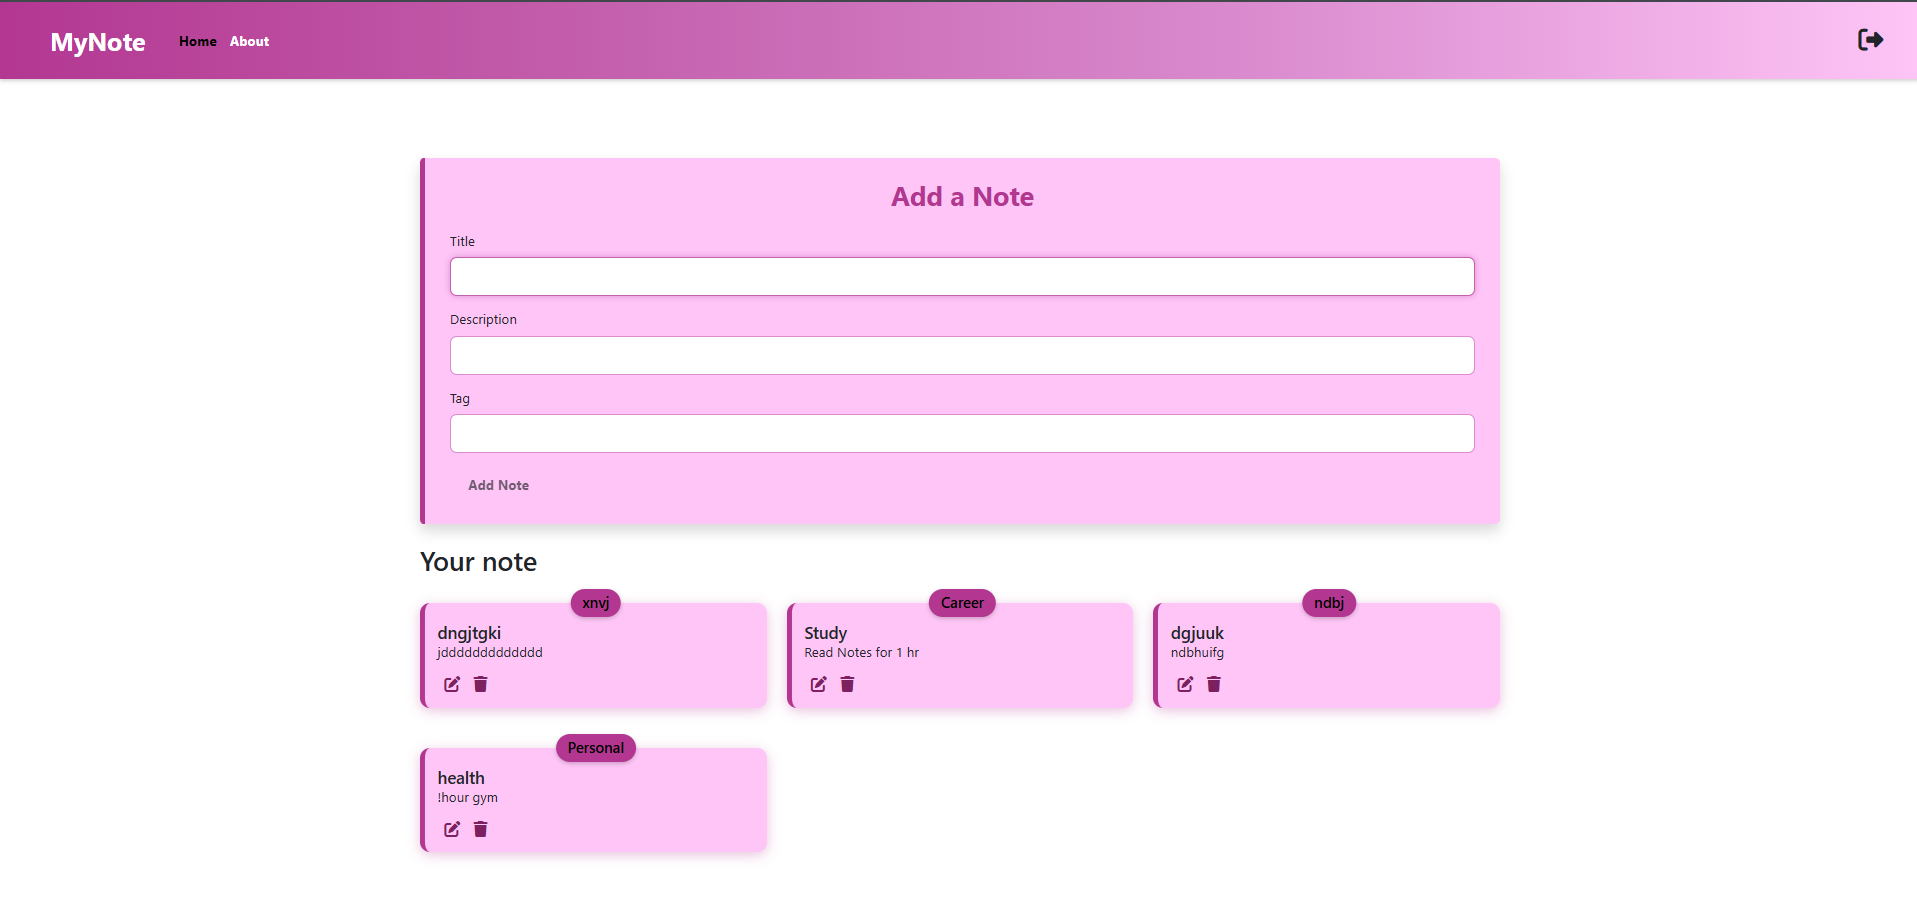
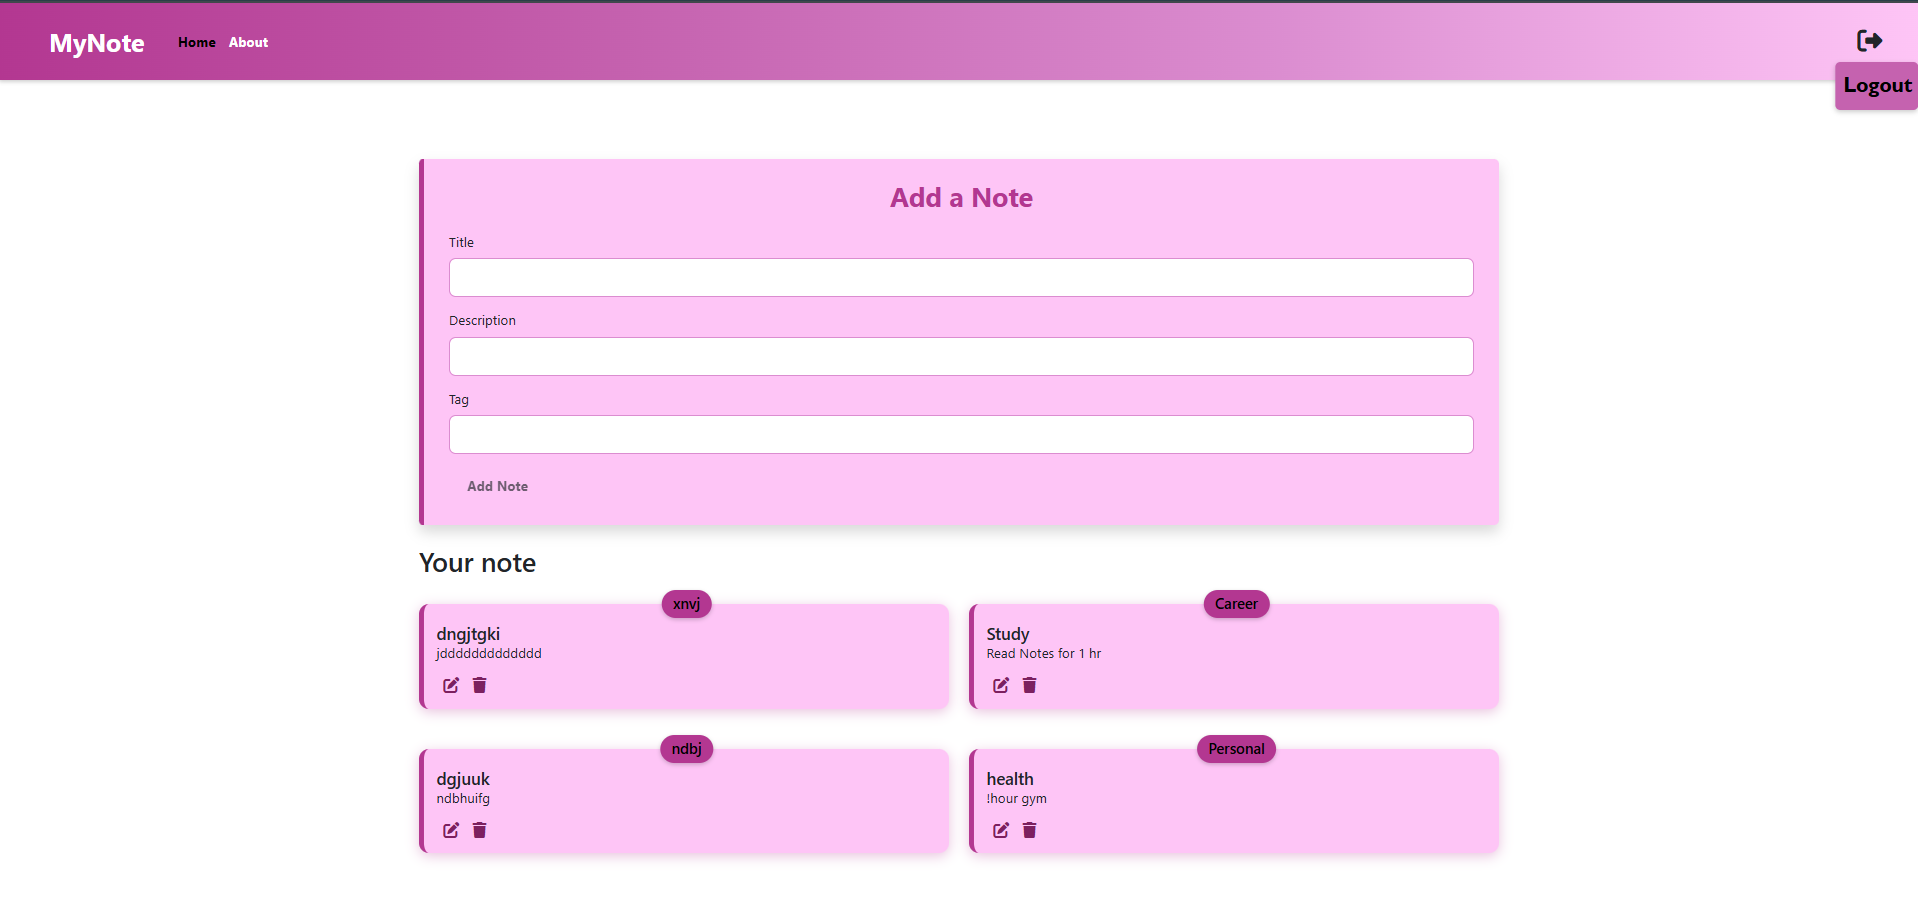
README updated

diff --git a/src/components/NoteItem.js b/src/components/NoteItem.js
@@ -7,7 +7,7 @@ function NoteItem(props) {
   const { deleteNote } = context;
 
   return (
-    <div className="col-md-4">
+    <div className="col-md-6">
       <div className="note-card my-4">
         <div className="card-body text-dark">
           <span className="note-tag badge rounded-pill">{note.tag}</span>
